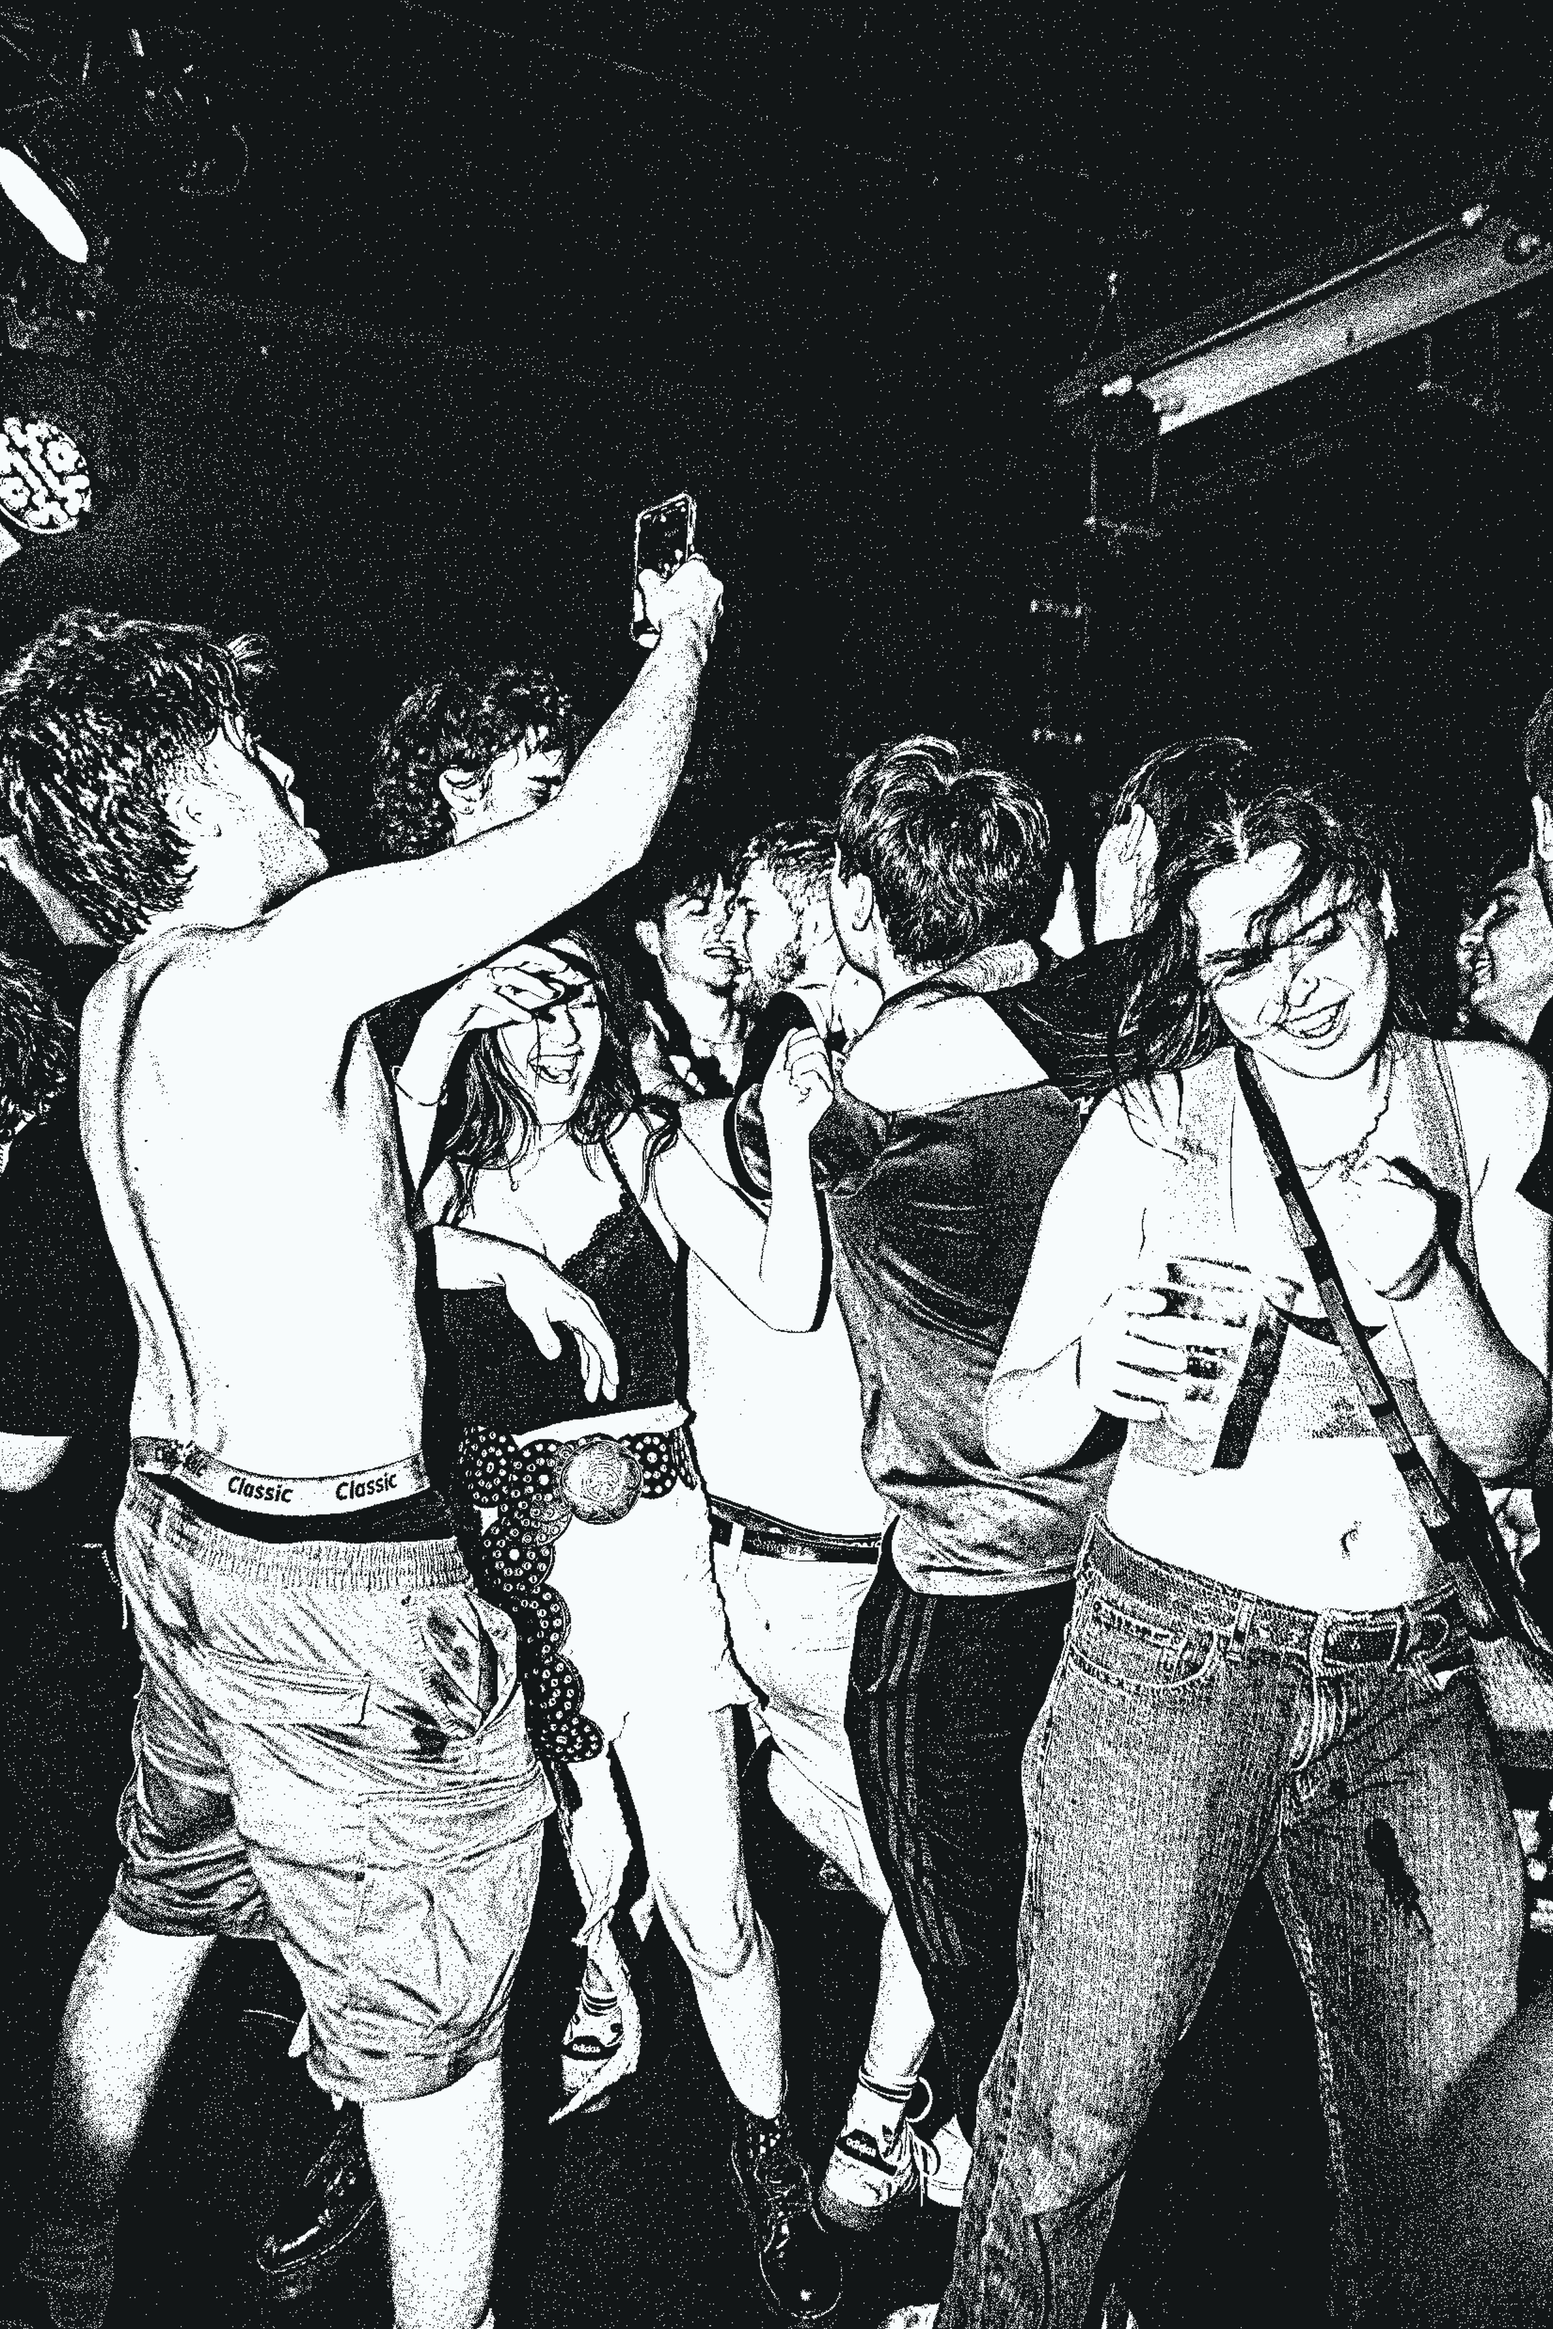
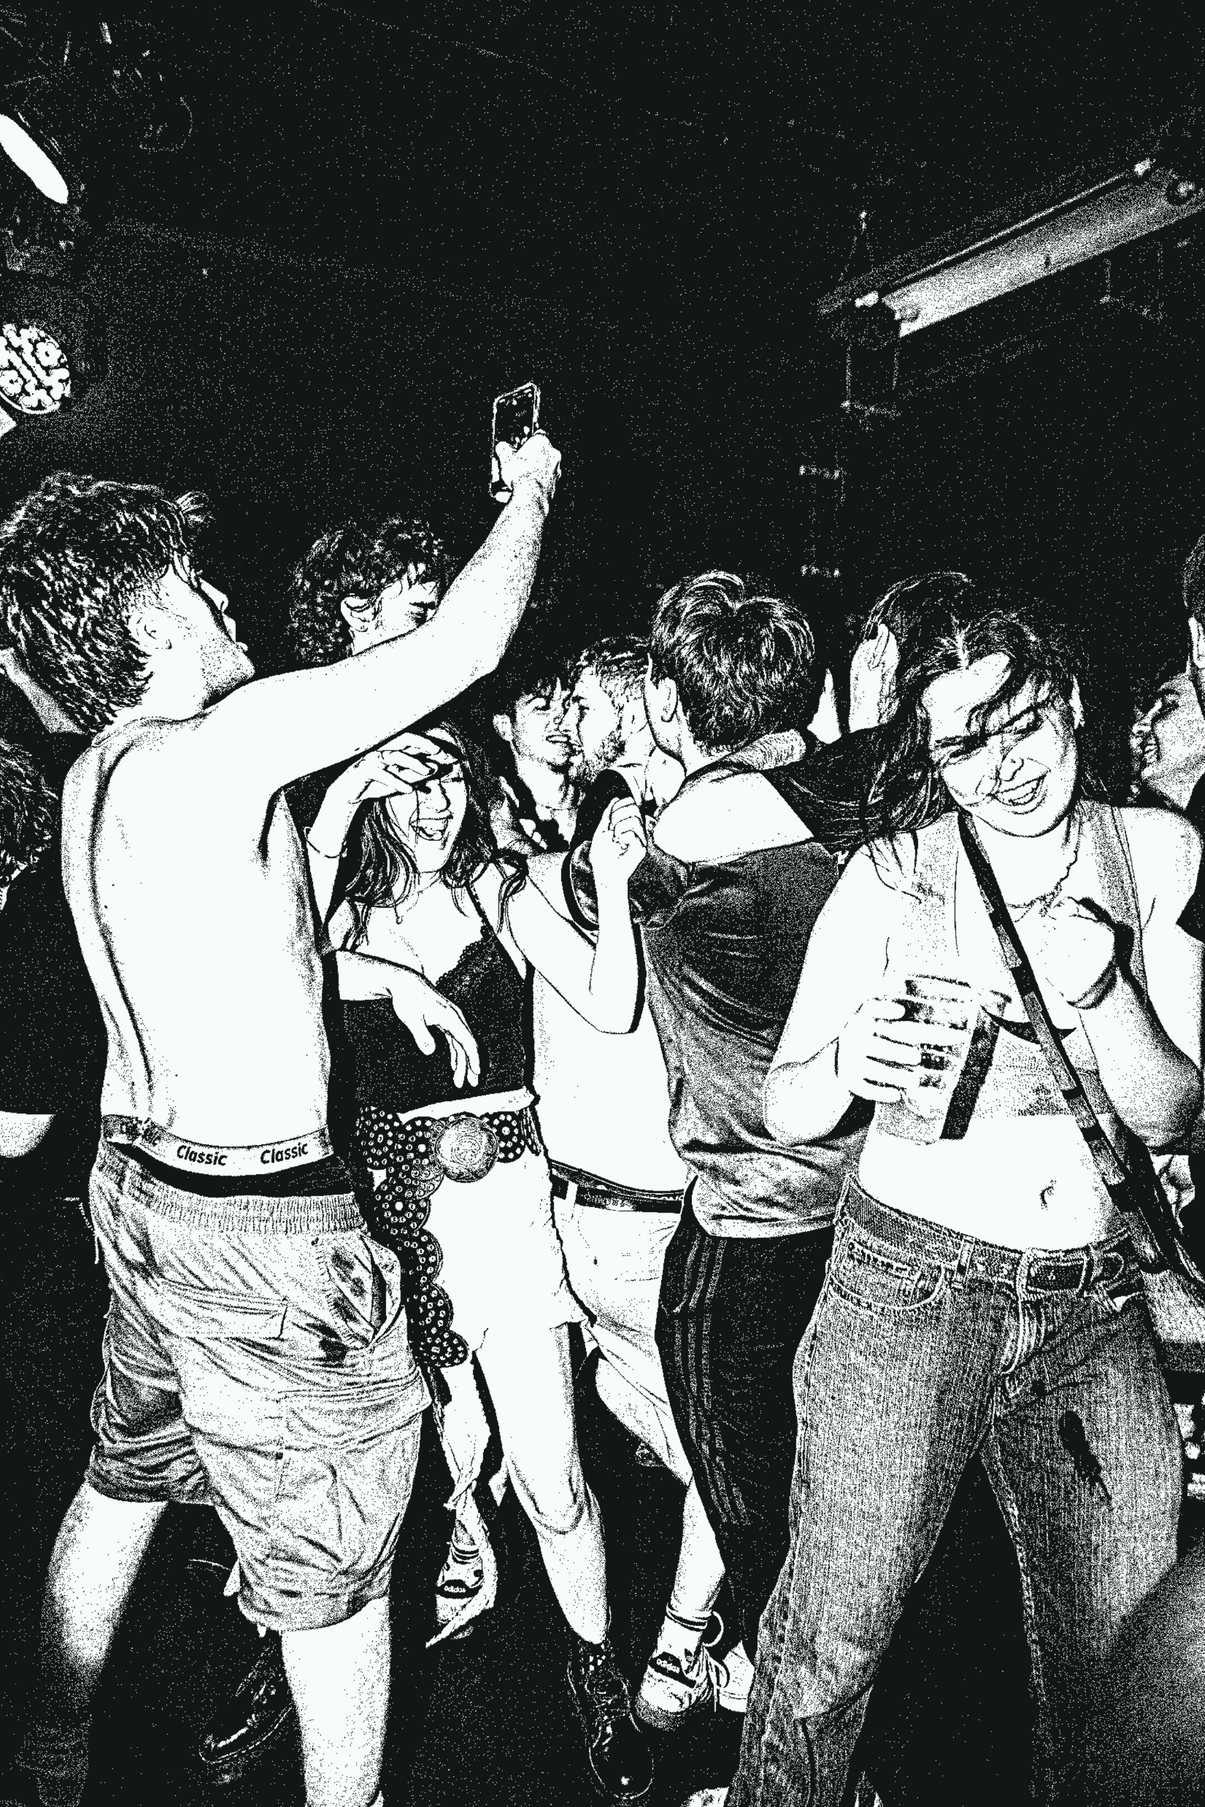
Add files via upload

diff --git a/merch.html b/merch.html
@@ -14,7 +14,7 @@
   <script src="https://kit.fontawesome.com/085cc61afb.js" crossorigin="anonymous"></script>
 </head>
 <body>
-  <img src="images/good-2-edit.png" alt="background_crowd" class="background-picture">
+  <img src="images/good-5-edit.png" alt="background_crowd" class="background-picture">
   <div id="page-cover"></div>
   <div class="fade"></div>
   <div class="header">

diff --git a/index.html b/index.html
@@ -3,6 +3,7 @@
 <head>
   <meta charset="UTF-8">
   <meta name="viewport" content="width=device-width, initial-scale=1.0">
+  <meta name="description" content="THE OFFICIAL WEBSITE FOR UK BASED INDIE ALT-ROCK BAND ROSA CAELUM.">
   <title>ROSA CAELUM</title>
   <link rel="icon" href="images/rose.png" type="image/x-icon">
   <link rel="stylesheet" href="styles/general.css">

diff --git a/shows.html b/shows.html
@@ -158,7 +158,7 @@
           <div class="future-location">Birmingham, England.</div>
         </div>
         <div class="ticket-link-container">
-          <a href="#" target="_blank" class="ticket-link">TICKETS</a>
+          <a href="#" target="_blank" class="ticket-link">AVAILABLE FRIDAY</a>
         </div>
       </div>
     </div>

diff --git a/styles/shows.css b/styles/shows.css
@@ -81,6 +81,7 @@
   display: flex;
   justify-content: right;
   align-items: center;
+  text-align: center;
 }
 
 .ticket-link {

diff --git a/styles/header-footer.css b/styles/header-footer.css
@@ -9,7 +9,6 @@
   top: 0;
   left: 0;
   background-color: #070101e0;
-  
   color: #be1501;
   z-index: 100000;
 }
